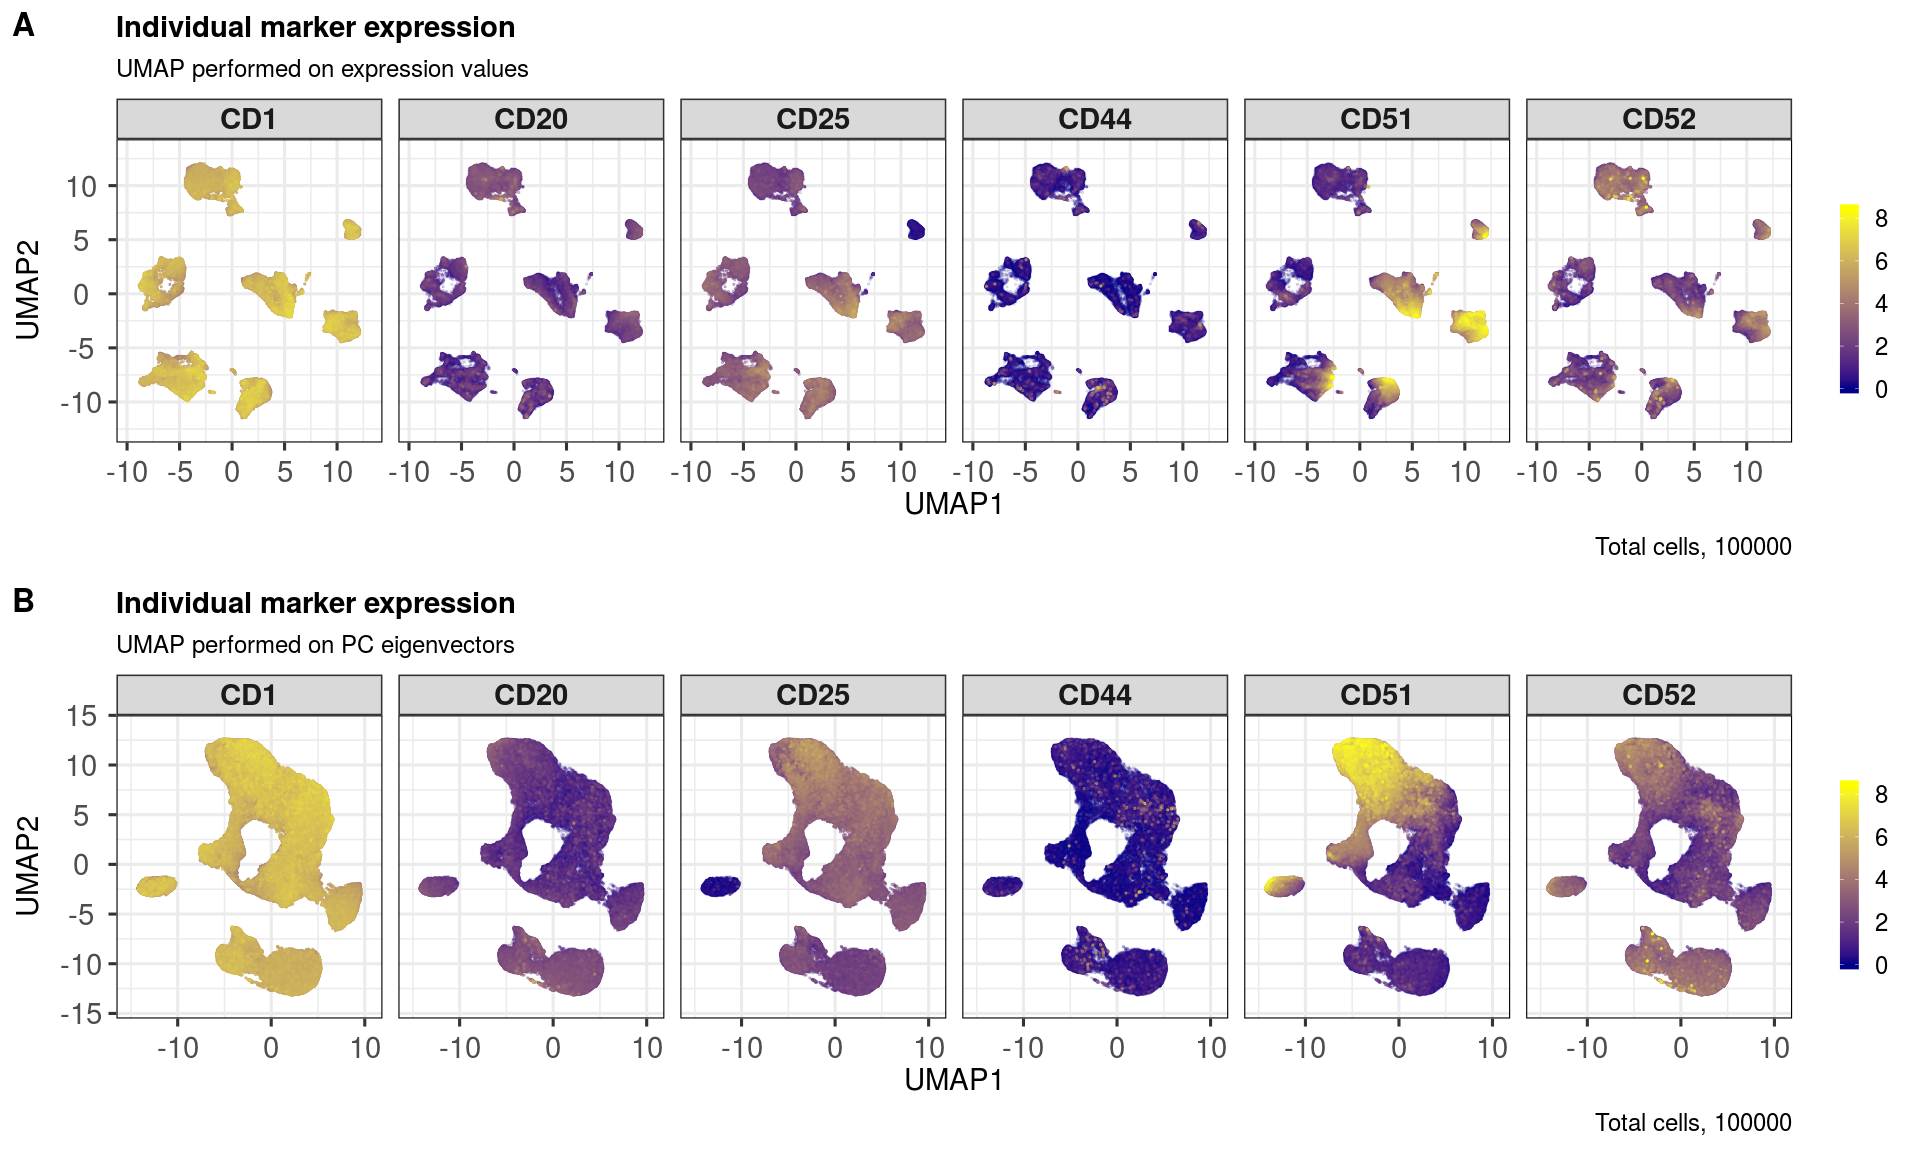
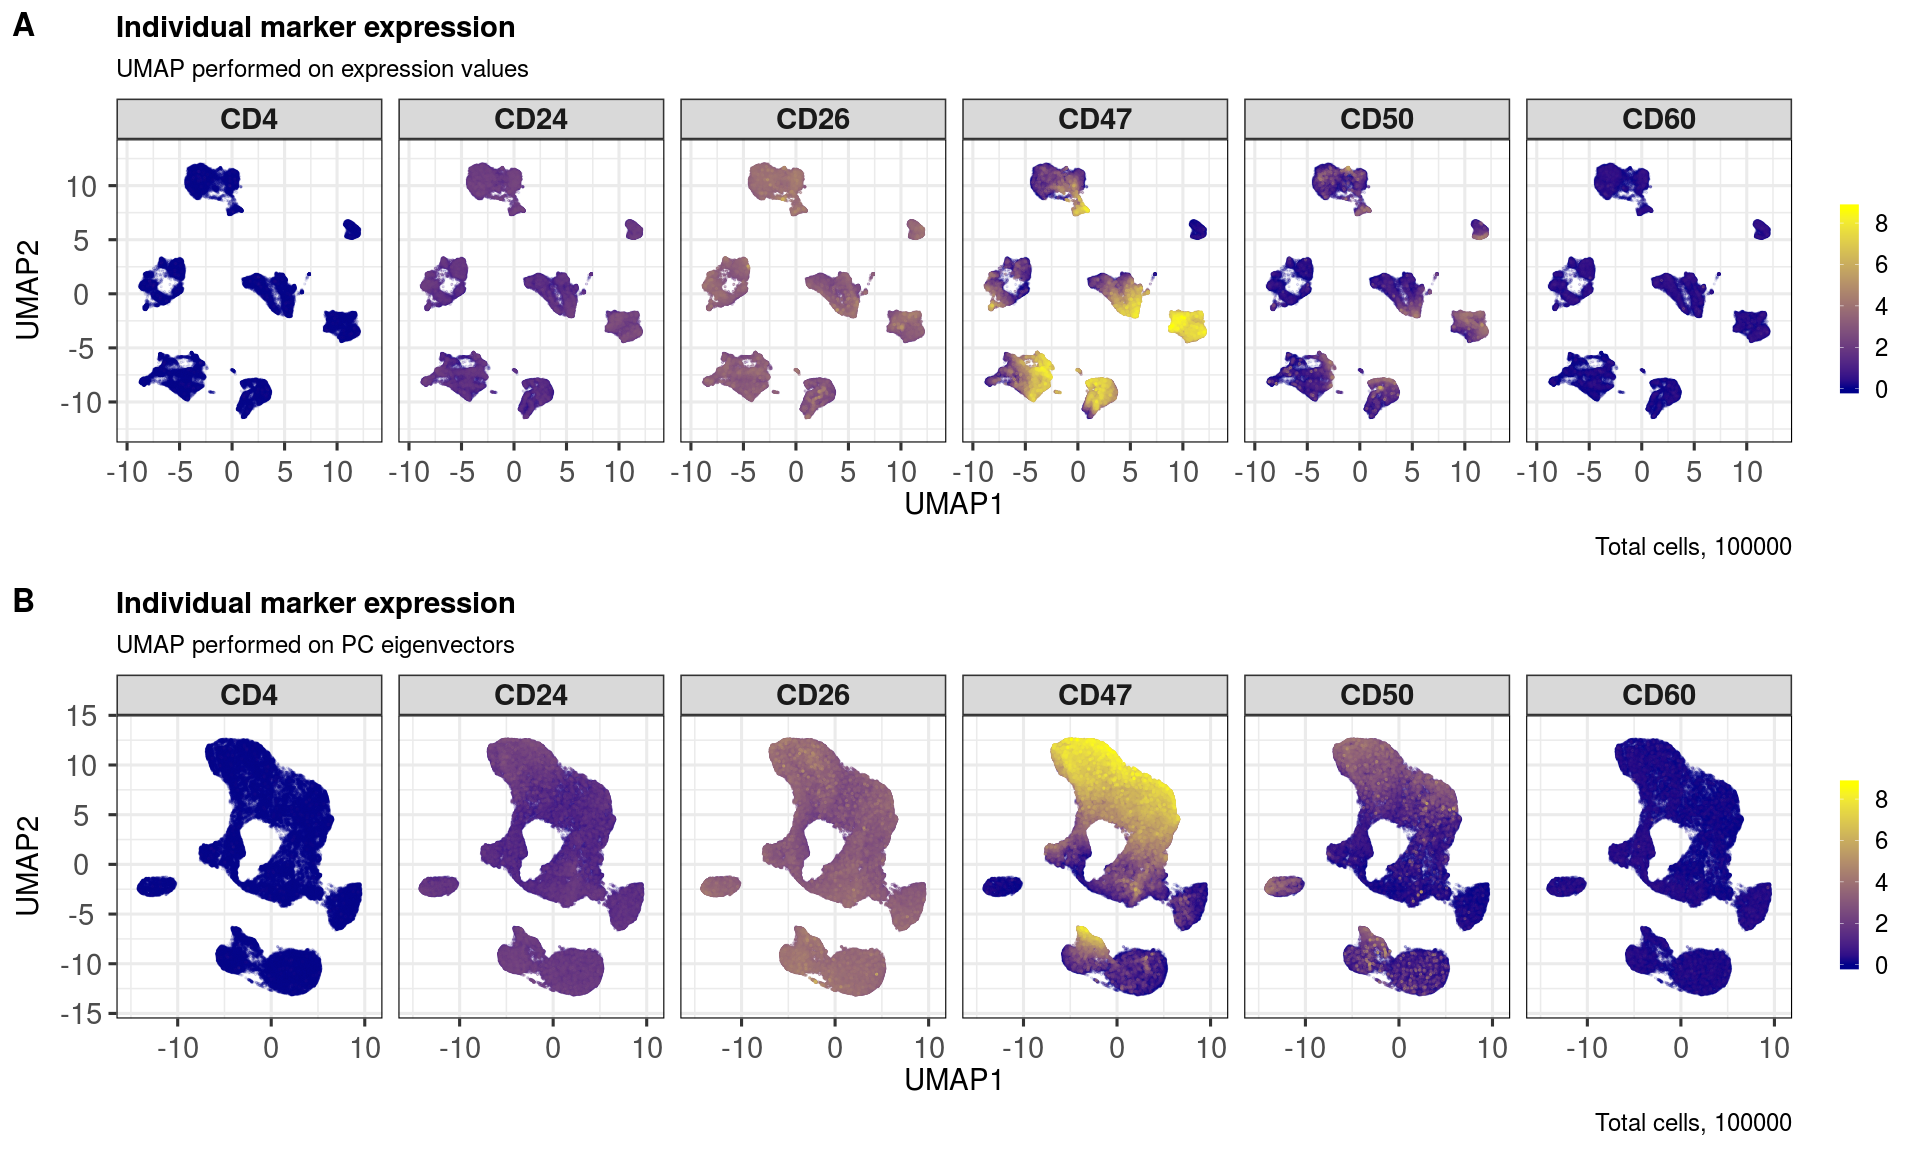
Regenerate vignette / update man pages

diff --git a/README.md b/README.md
@@ -1,7 +1,7 @@
 scDataviz: single cell dataviz and downstream analyses
 ================
 Kevin Blighe
-2020-02-09
+2020-02-11
 
 -   [Introduction](#introduction)
 -   [Installation](#installation)
@@ -131,7 +131,7 @@ Now, read in the data and normalise it. The `processFCS` command by default remo
     newColnames = paste0('CD', 1:65))
 ```
 
-One can also create a new *SingleCellExperiment* object manually using any type of data, including any data-matrix from scRNA-seq produced elsewhere. Import functions for data deriving from popular programs will be covered in future tutorials, e.g., *Seurat*.
+One can also create a new *SingleCellExperiment* object manually using any type of data, including any data from scRNA-seq produced elsewhere. Import functions for data deriving from other sources is covered in Tutorials 2 and 3 in this vignette. All functions in *scDataviz* additionally accept data-frames or matrices on their own, de-necessitating the reliance on the *SingleCellexperiment* class.
 
 Perform principal component analysis (PCA)
 ------------------------------------------
@@ -245,7 +245,7 @@ Here, we randomly select some markers and then plot their expression profiles ac
   markers
 ```
 
-    ## [1] "CD44" "CD1"  "CD51" "CD52" "CD20" "CD25"
+    ## [1] "CD50" "CD4"  "CD60" "CD26" "CD47" "CD24"
 
 ``` r
   ggout1 <- markerExpression(sce,
@@ -384,7 +384,7 @@ This function utilises the k nearest neighbours (k-NN) approach from Seurat, whi
     ## Running Louvain algorithm with multilevel refinement...
     ## Maximum modularity in 10 random starts: 0.9985
     ## Number of communities: 13
-    ## Elapsed time: 23 seconds
+    ## Elapsed time: 24 seconds
 
 ``` r
   sce <- clusKNN(sce,
@@ -404,7 +404,7 @@ This function utilises the k nearest neighbours (k-NN) approach from Seurat, whi
     ## Running Louvain algorithm with multilevel refinement...
     ## Maximum modularity in 10 random starts: 0.9974
     ## Number of communities: 8
-    ## Elapsed time: 22 seconds
+    ## Elapsed time: 26 seconds
 
 ``` r
   ggout1 <- plotClusters(sce,
@@ -453,10 +453,24 @@ Plot marker expression per identified cluster
 ![Plot marker expression per identified cluster1](README_files/figure-markdown_github/ex6a-1.png)
 
 ``` r
+  clusters <- unique(metadata(sce)[['Cluster_PCA']])
+  clusters
+```
+
+    ## [1] 4 3 0 6 1 5 7 2
+
+``` r
+  markers <- sample(rownames(sce), 8)
+  markers
+```
+
+    ## [1] "CD19" "CD50" "CD42" "CD62" "CD23" "CD10" "CD13" "CD65"
+
+``` r
   markerExpressionPerCluster(sce,
-    clusters = unique(metadata(sce)[['Cluster_PCA']]),
-    clusterVector = metadata(sce)[['Cluster_PCA']],
-    markers = sample(rownames(sce), 8),
+    clusters = clusters,
+    clusterAssign = metadata(sce)[['Cluster_PCA']],
+    markers = markers,
     nrow = 2, ncol = 4,
     caption = 'Cluster assignments based on UMAP performed on PC eigenvectors',
     stripLabSize = 22,
@@ -1548,10 +1562,11 @@ Let's check the reduced dimensions and then plot some randomly selected marker e
   markers
 ```
 
-    ##  [1] "CDCA4"       "CNN2"        "GUCY1A3"     "HIP1"        "ZNF3"       
-    ##  [6] "FXYD5"       "TMEM208"     "DCPS"        "CYB561D2"    "ANKS1B"     
-    ## [11] "RP1-315G1.3" "PCBP2"       "SEC22C"      "PSMB8"       "ZNF564"     
-    ## [16] "EHBP1"       "SDK2"        "MT-ND1"
+    ##  [1] "AVPI1"         "KRR1"          "PPP1R14B"      "CCDC122"      
+    ##  [5] "SLC20A2"       "TIMMDC1"       "PERP"          "ERH"          
+    ##  [9] "SLC43A3"       "RP11-135A24.4" "PPM1L"         "CHCHD10"      
+    ## [13] "RETSAT"        "MTHFD2"        "TNFAIP8L1"     "SAAL1"        
+    ## [17] "ZNF700"        "FOXD2"
 
 ``` r
   ggout <- markerExpression(pbmc.sce,
@@ -2123,7 +2138,7 @@ sessionInfo()
     ## other attached packages:
     ##  [1] Seurat_3.1.1                PCAtools_1.2.0             
     ##  [3] cowplot_1.0.0               lattice_0.20-38            
-    ##  [5] reshape2_1.4.3              scDataviz_0.99.20          
+    ##  [5] reshape2_1.4.3              scDataviz_0.99.26          
     ##  [7] ggrepel_0.8.1               ggplot2_3.2.1              
     ##  [9] SingleCellExperiment_1.8.0  SummarizedExperiment_1.16.0
     ## [11] DelayedArray_0.12.0         BiocParallel_1.20.0        
